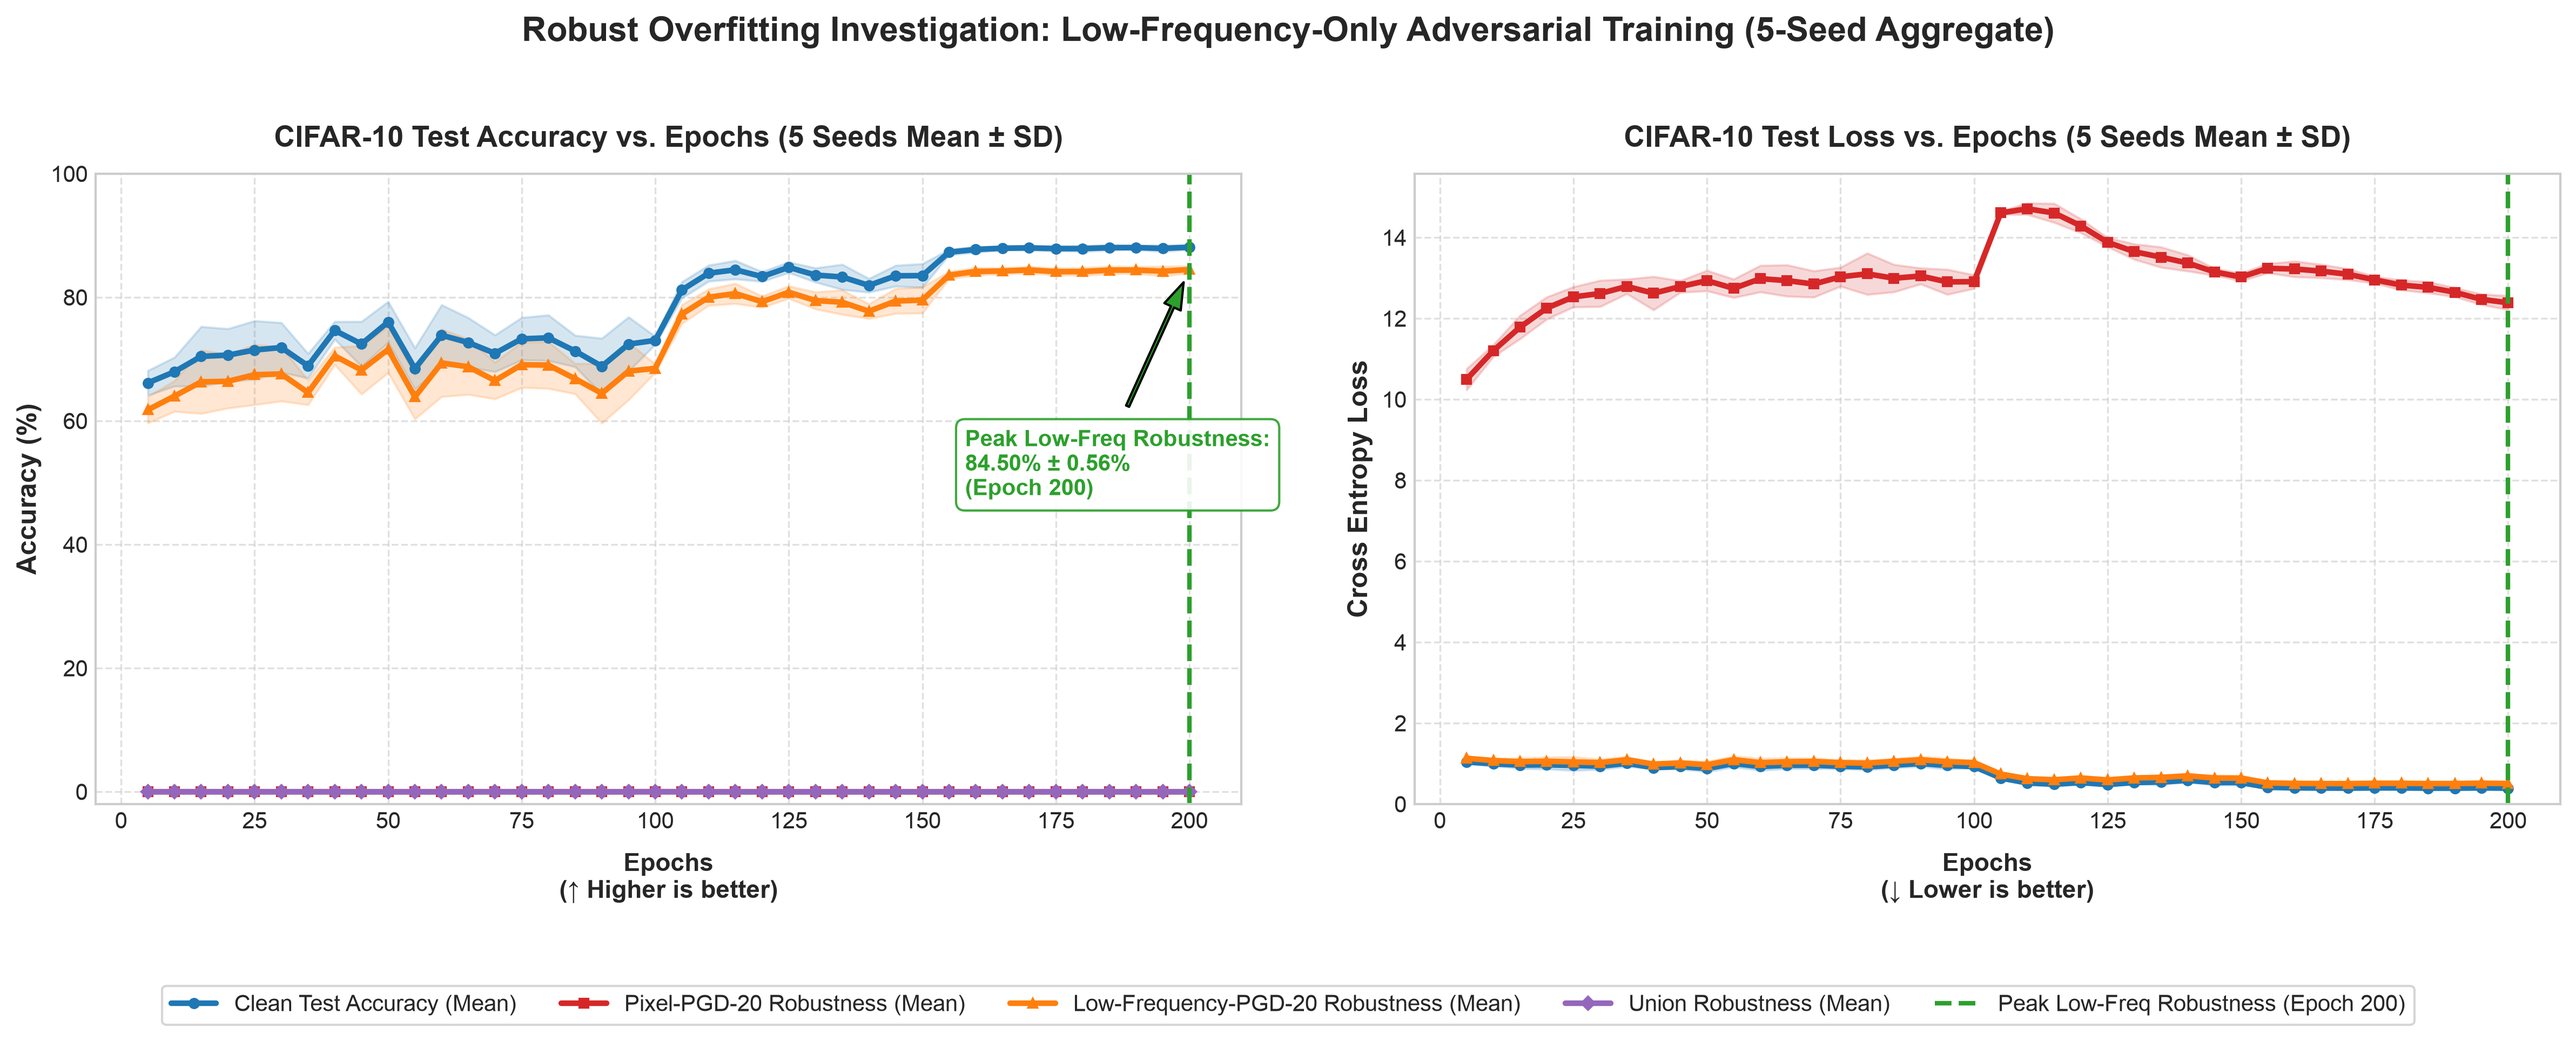
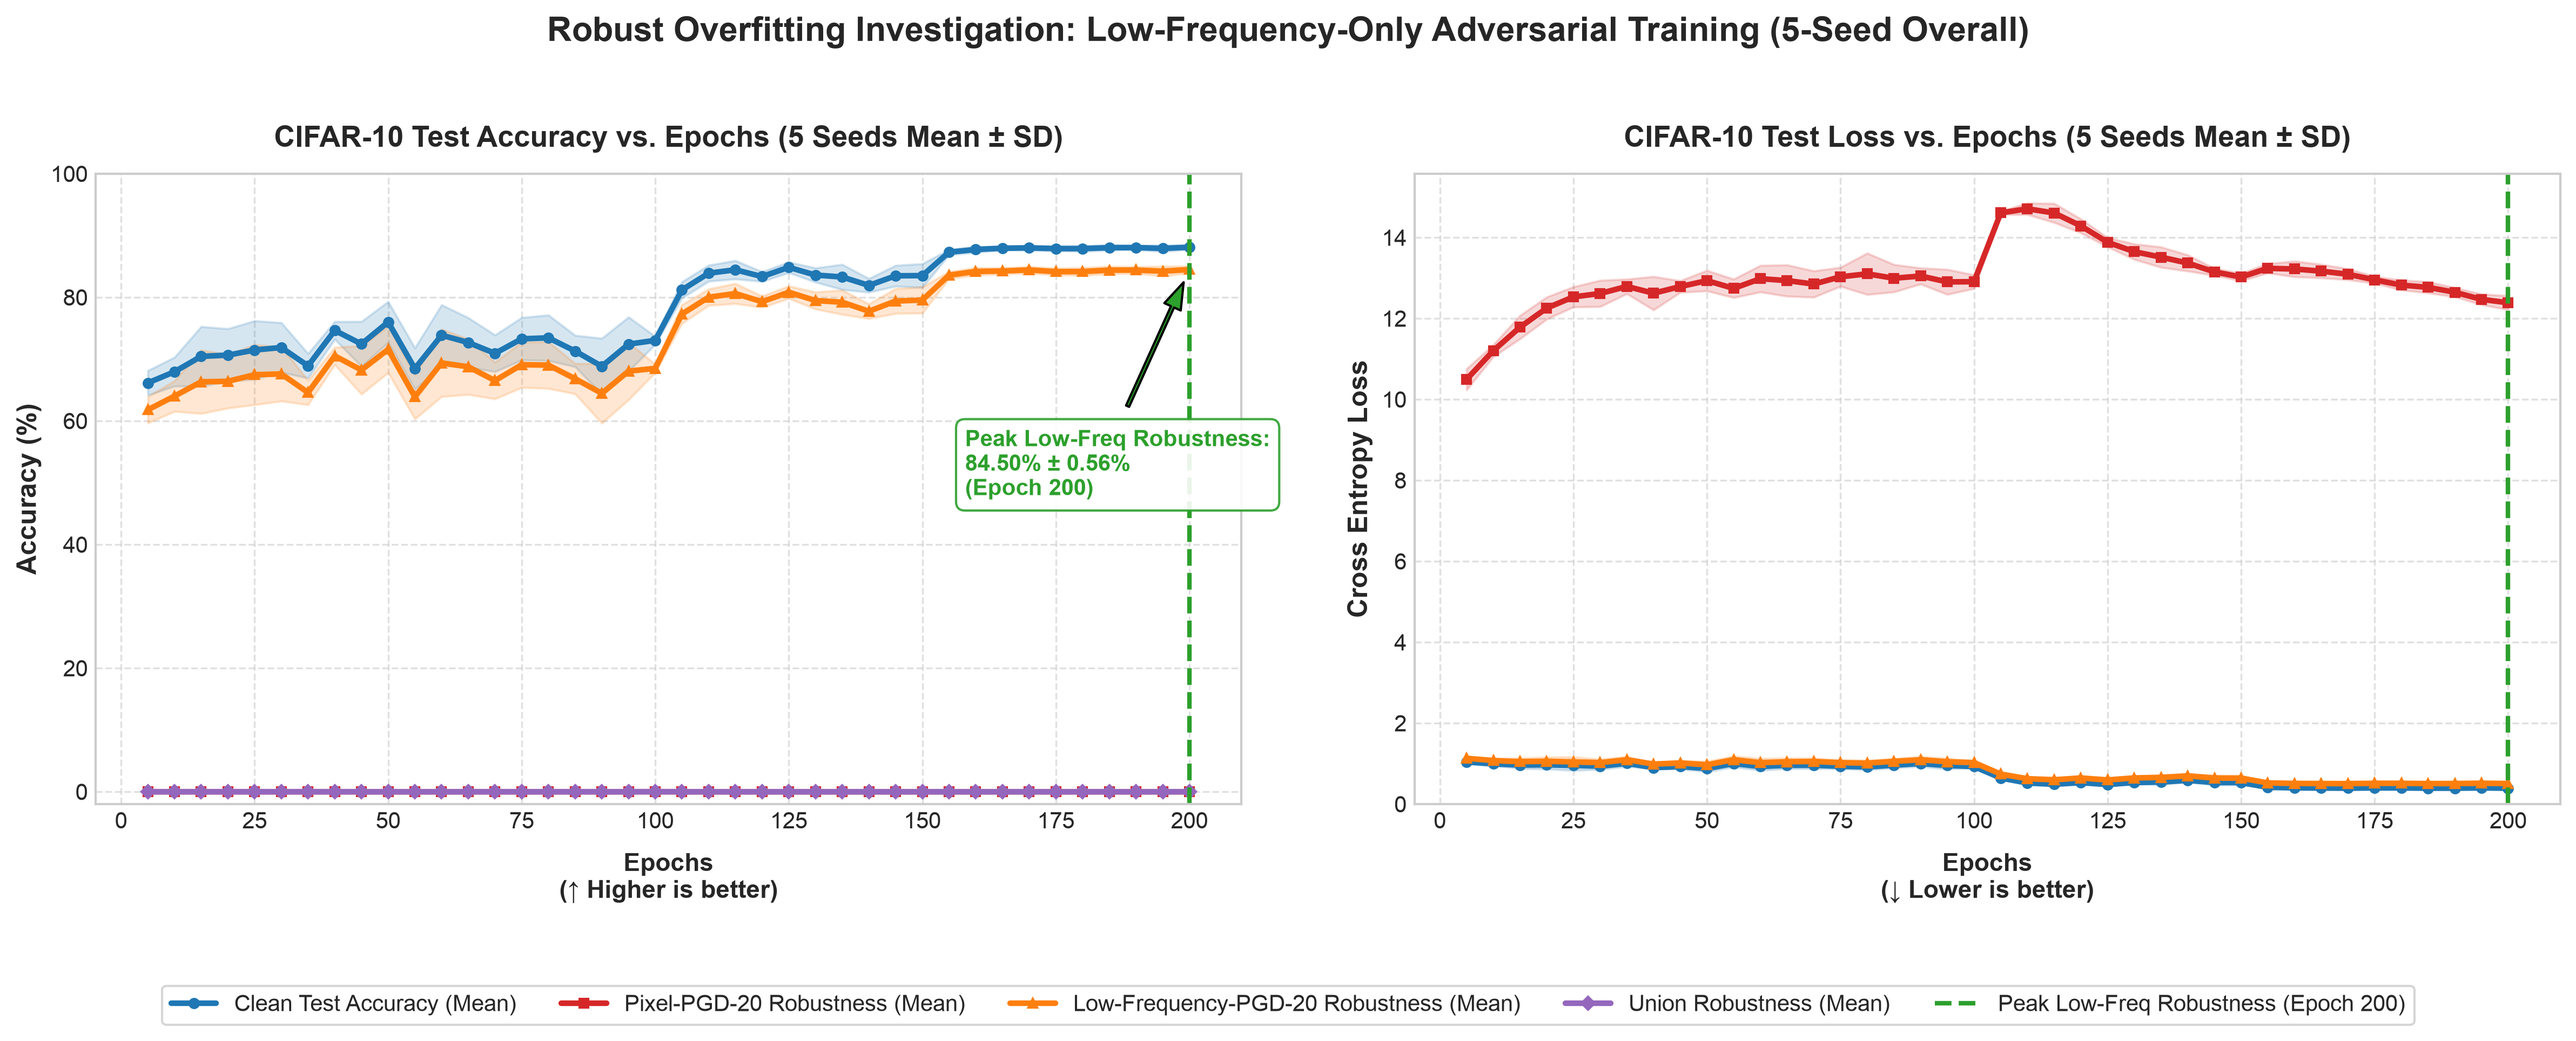
Commit: Plot Annotation Offsets & Rename Aggregate to Overall
1. Added mixed-domain annotation offset logic, renamed plot supertitles from "Aggregate" to "Overall", and included a baseline run in the seed aggregation loop; regenerated the two low-frequency-only/overall PNGs to reflect these changes.

Changed region(s): [[0.1875, 0.0, 0.8123, 0.0622]]

diff --git a/scripts/plot_results.py b/scripts/plot_results.py
@@ -75,6 +75,9 @@ def plot_accuracy_subplot(ax, data, best_epoch, peak_accuracy, peak_label, train
     ax.axvline(x=best_epoch, color='#2ca02c', linestyle='--', linewidth=2, label=f'Peak {peak_label} (Epoch {best_epoch})')
     if training_mode == 'low-frequency-only':
         xytext = (best_epoch - 42, 48)
+    elif training_mode == 'mixed-domain':
+        x_text_offset = -40 if best_epoch > 140 else 8
+        xytext = (best_epoch + x_text_offset, peak_accuracy + 12)
     elif best_epoch > 150:
         xytext = (best_epoch - 38, peak_accuracy + 4.5)
     else:
@@ -391,6 +394,9 @@ def plot_aggregate_evaluation_results(report_mode_dir, output_png_path, training
     # Highlight the peak
     if training_mode == 'low-frequency-only':
         xytext = (best_epoch - 42, 48)
+    elif training_mode == 'mixed-domain':
+        x_text_offset = -40 if best_epoch > 140 else 8
+        xytext = (best_epoch + x_text_offset, peak_accuracy_mean + 12)
     elif best_epoch > 150:
         xytext = (best_epoch - 38, peak_accuracy_mean + 4.5)
     else:
@@ -434,7 +440,7 @@ def plot_aggregate_evaluation_results(report_mode_dir, output_png_path, training
         'mixed-domain': 'Mixed-Domain Adversarial Training'
     }
     condition_title = mode_titles.get(training_mode, training_mode)
-    plt.suptitle(f'Robust Overfitting Investigation: {condition_title} ({agg["num_seeds"]}-Seed Aggregate)', fontsize=15, fontweight='bold', y=0.98)
+    plt.suptitle(f'Robust Overfitting Investigation: {condition_title} ({agg["num_seeds"]}-Seed Overall)', fontsize=15, fontweight='bold', y=0.98)
 
     handles, labels = ax1.get_legend_handles_labels()
     fig.legend(handles, labels, loc='lower center', bbox_to_anchor=(0.5, -0.07), ncol=len(labels), frameon=True, facecolor='white', edgecolor='#cccccc', fontsize=10)
@@ -542,7 +548,7 @@ def plot_aggregate_training_results(runs_mode_dir, output_png_path, training_mod
         'mixed-domain': 'Mixed-Domain Adversarial Training'
     }
     condition_title = mode_titles.get(training_mode, training_mode)
-    plt.suptitle(f'Training Dynamics: {condition_title} ({agg["num_seeds"]}-Seed Aggregate)', fontsize=15, fontweight='bold', y=0.98)
+    plt.suptitle(f'Training Dynamics: {condition_title} ({agg["num_seeds"]}-Seed Overall)', fontsize=15, fontweight='bold', y=0.98)
 
     handles, labels = ax1.get_legend_handles_labels()
     fig.legend(handles, labels, loc='lower center', bbox_to_anchor=(0.5, -0.07), ncol=len(labels), frameon=True, facecolor='white', edgecolor='#cccccc', fontsize=10)
@@ -581,6 +587,8 @@ def process_mode_plots(training_mode, seed=None, run_name=None, diagnostic=False
     if all_seeds:
         seed_dirs = sorted(glob.glob(os.path.join(report_mode_dir, 'seed-*')))
         target_runs = [os.path.basename(sd) for sd in seed_dirs]
+        if os.path.exists(os.path.join(report_mode_dir, 'baseline')):
+            target_runs.insert(0, 'baseline')
     elif run_name is not None:
         target_runs = [run_name]
     elif seed is not None:
